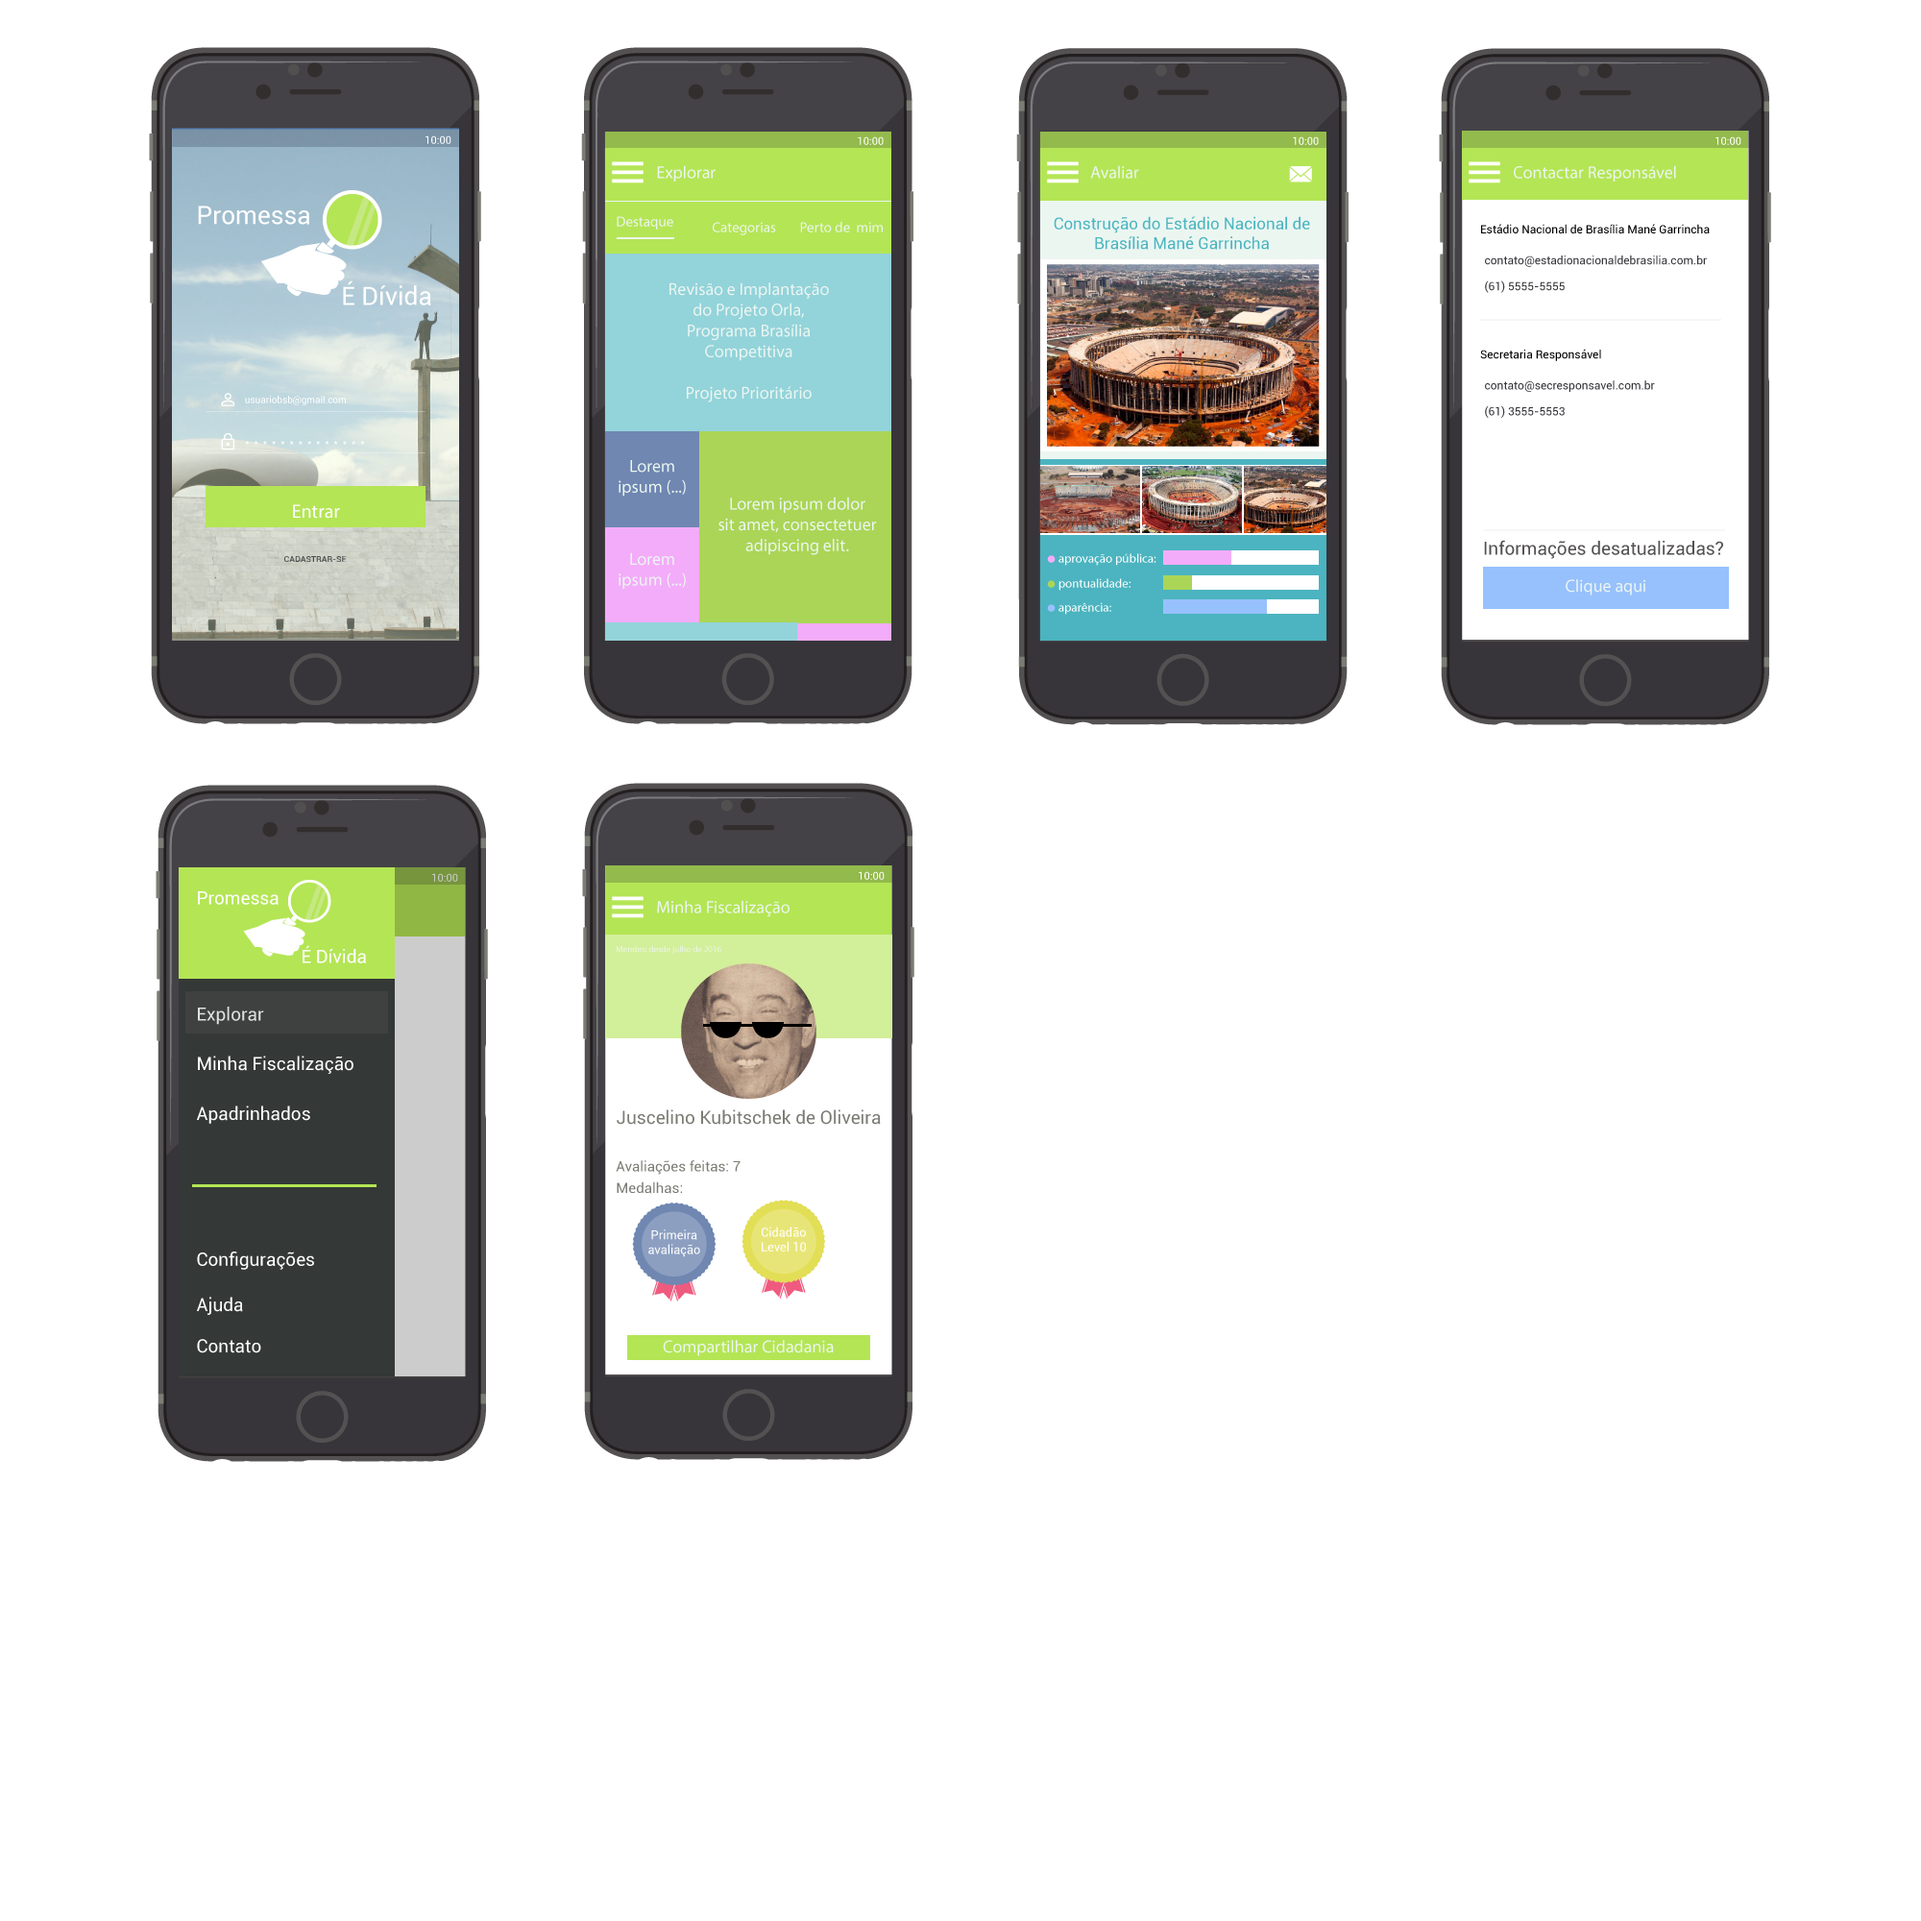
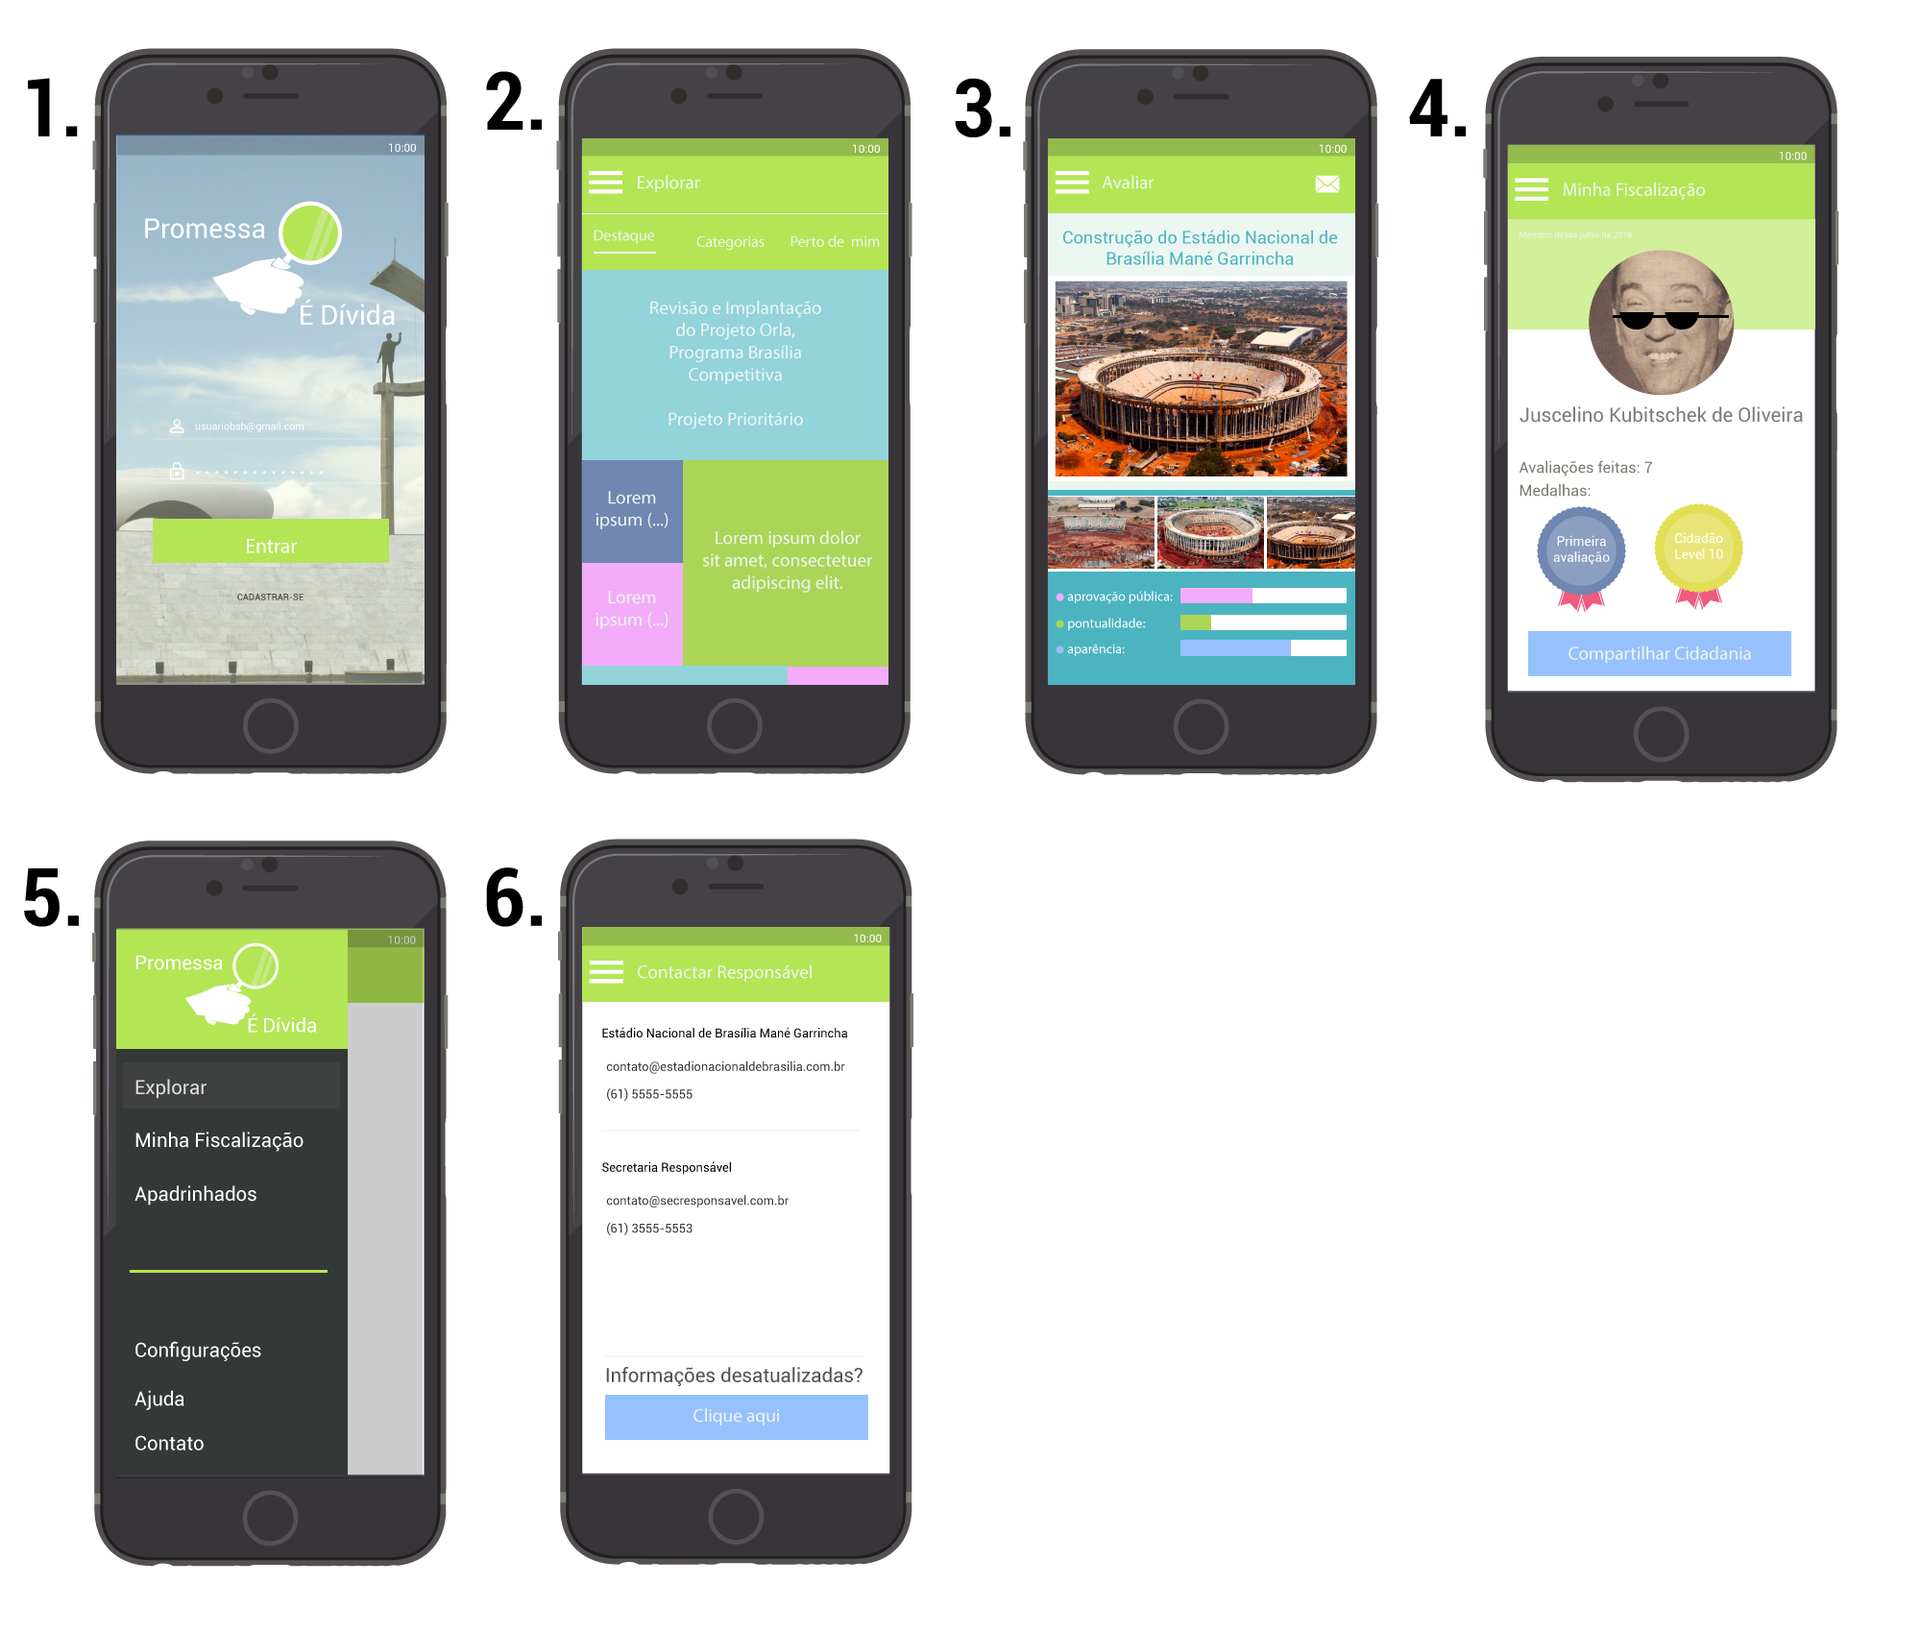
updated readme

diff --git a/README.md b/README.md
@@ -23,12 +23,12 @@ executados pelo governo aproximando também o cidadão da fiscalização dos gas
 
 ![ScreenShot](assets/telas-prototipo.png)
 
-- Tela Login
-- Tela Inicial Explorar - Apresenta metas estabelecidas pelo governo. Abas de filtro: 'Destaque', 'Categora' e 'Perto de Mim'
-- Tela Avaliar - Apresenta perfil da meta estabelecida pelo governo, com fotos e avaliações do cidadão - possibilita contactar responsável
-- Tela Contactar Responsável - Apresenta dados dos principais responsáveis pela meta estabelecida
-- Aba Lateral
-- Tela Minha Fiscalização - Apresenta perfil do usuário cidadão, com medalhas e conquistas dentro da pontuação do aplicativo
+1. Tela Login
+2. Tela Inicial Explorar - Apresenta metas estabelecidas pelo governo. Abas de filtro: 'Destaque', 'Categora' e 'Perto de Mim'
+3. Tela Avaliar - Apresenta perfil da meta estabelecida pelo governo, com fotos e avaliações do cidadão - possibilita contactar responsável
+4. Tela Minha Fiscalização - Apresenta perfil do usuário cidadão, com medalhas e conquistas dentro da pontuação do aplicativo
+5. Aba Lateral
+6. Tela Contactar Responsável - Apresenta dados dos principais responsáveis pela meta estabelecida
 
 ===========
 
